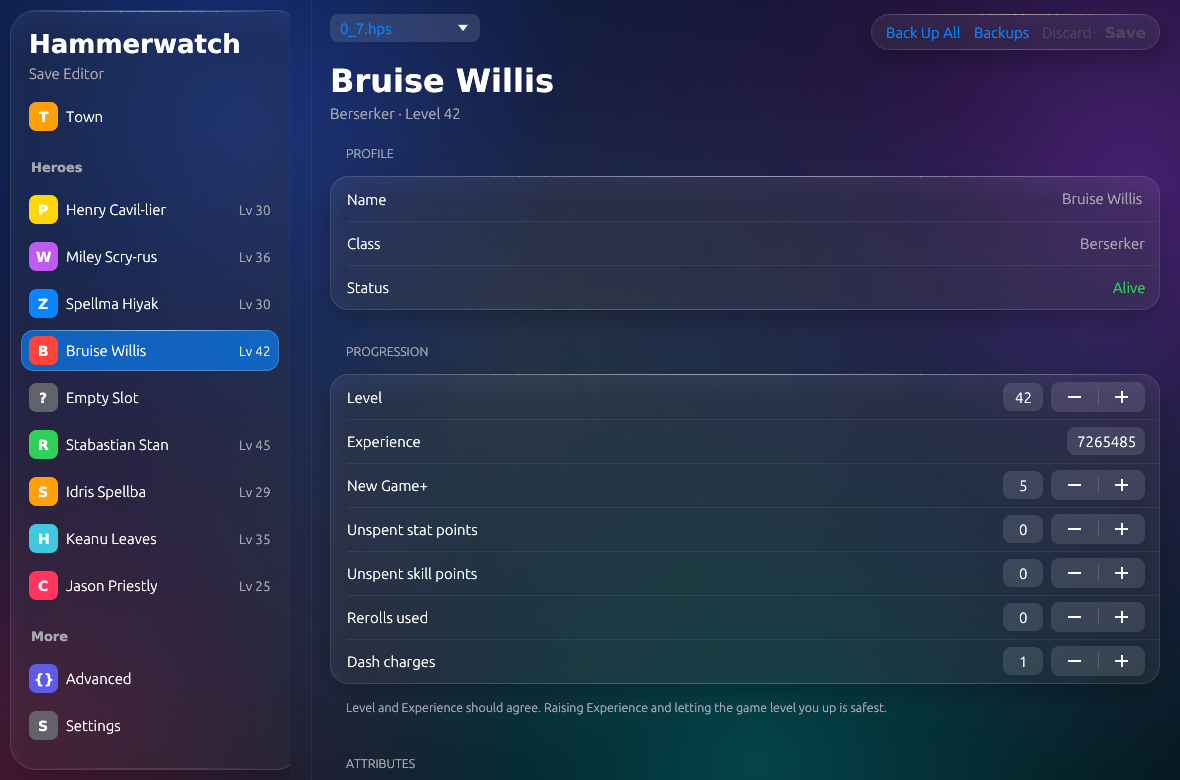
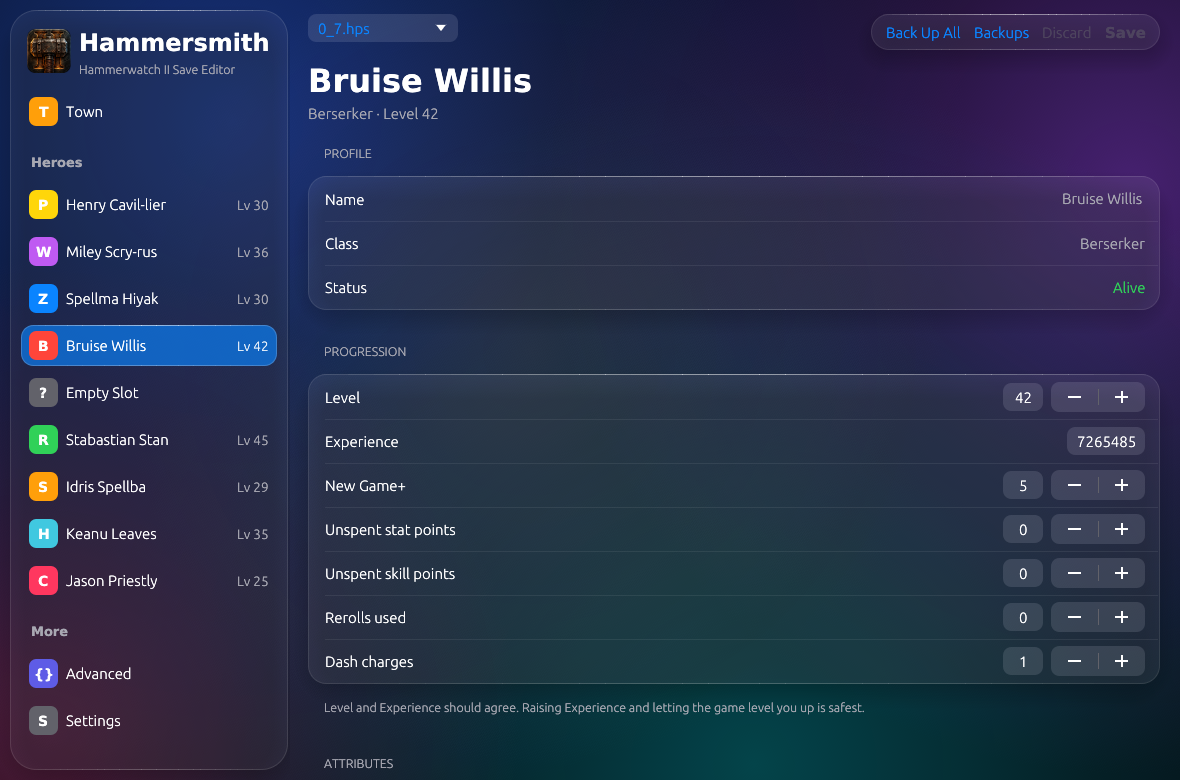
Fix sidebar glass panel clipped on its right edge
Claude-Session: https://claude.ai/code/session_01Bu5EvC2pvX6TEWNFhBYjyf

diff --git a/src/main.rs b/src/main.rs
@@ -808,11 +808,12 @@ impl eframe::App for App {
         egui::SidePanel::left("nav")
             .resizable(false)
             .exact_width(290.0)
-            .frame(theme::glass(theme::SIDEBAR, 26).outer_margin(egui::Margin::same(10)).inner_margin(egui::Margin { left: 10, right: 22, top: 18, bottom: 10 }))
+            .show_separator_line(false)
+            .frame(egui::Frame::new().inner_margin(egui::Margin { left: 10, right: 2, top: 10, bottom: 10 }))
             .show(ctx, |ui| {
-                let pr = ui.max_rect().expand2(egui::vec2(10.0, 0.0));
-                let pr = egui::Rect::from_min_max(egui::pos2(pr.left(), pr.top() - 18.0), egui::pos2(pr.right(), pr.bottom() + 10.0));
-                theme::sheen(&ui.painter().with_clip_rect(pr.expand(2.0)), pr, 26.0);
+                // the glass sheet is drawn fully inside the panel so nothing gets clipped
+                let gr = theme::glass(theme::SIDEBAR, 26).inner_margin(egui::Margin { left: 10, right: 10, top: 18, bottom: 10 }).show(ui, |ui| {
+                ui.set_min_size(ui.available_size());
                 ui.horizontal(|ui| {
                     ui.add_space(6.0);
                     let tex = ui.ctx().data_mut(|d| d.get_temp::<egui::TextureHandle>(egui::Id::new("appicon"))).unwrap_or_else(|| {
@@ -873,6 +874,8 @@ impl eframe::App for App {
                         theme::sheen(&p, rr, 12.0);
                     }
                 });
+                });
+                theme::sheen(ui.painter(), gr.response.rect, 26.0);
             });
 
         // ---------- detail ----------
